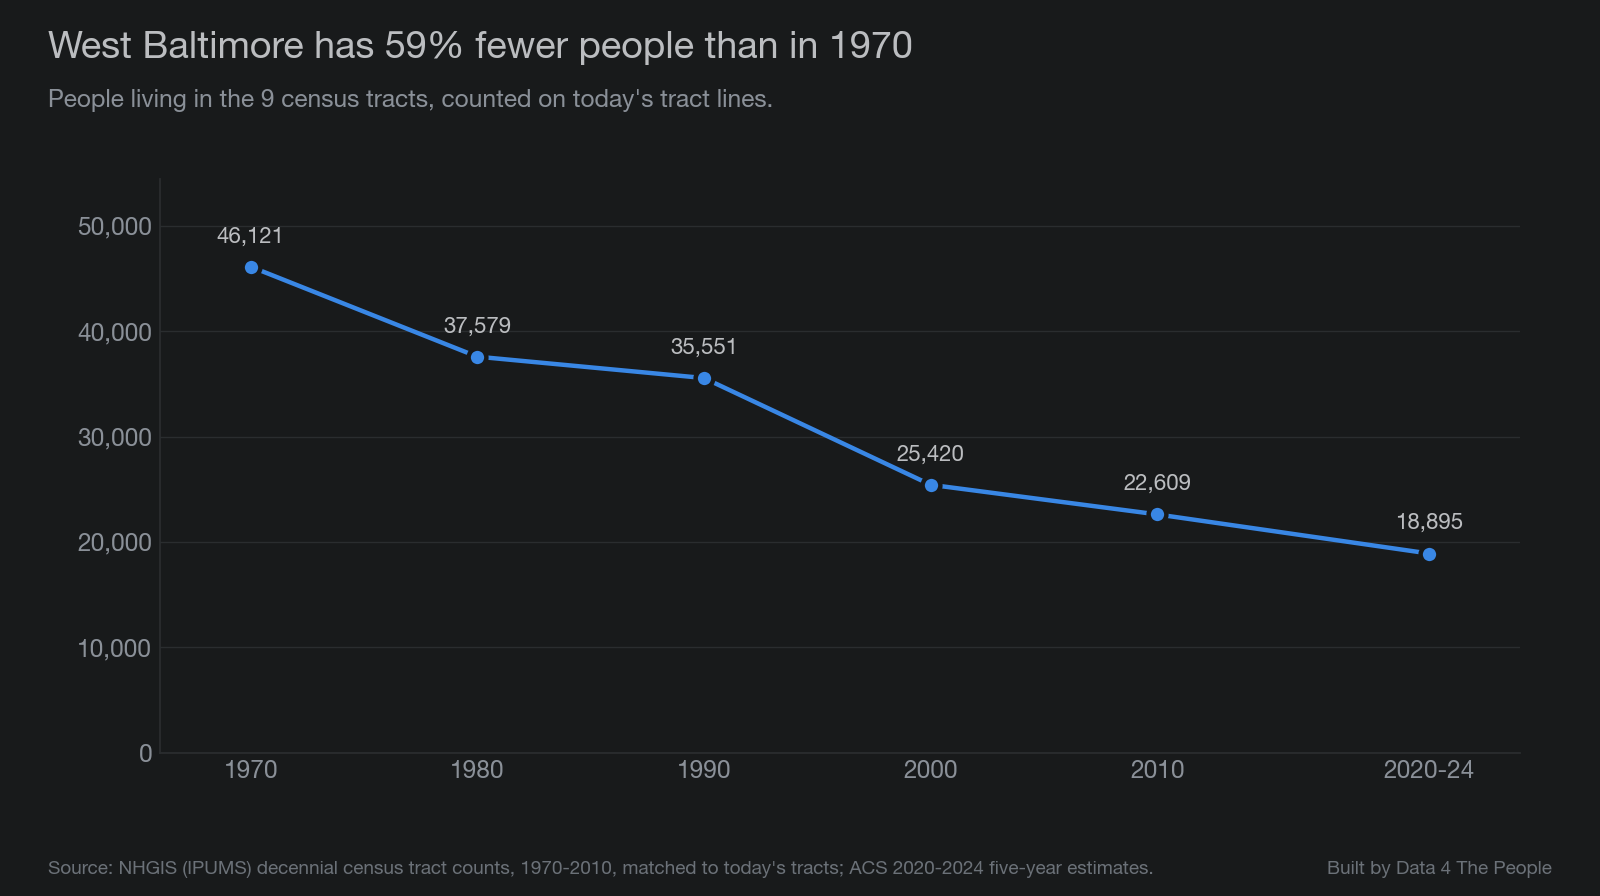
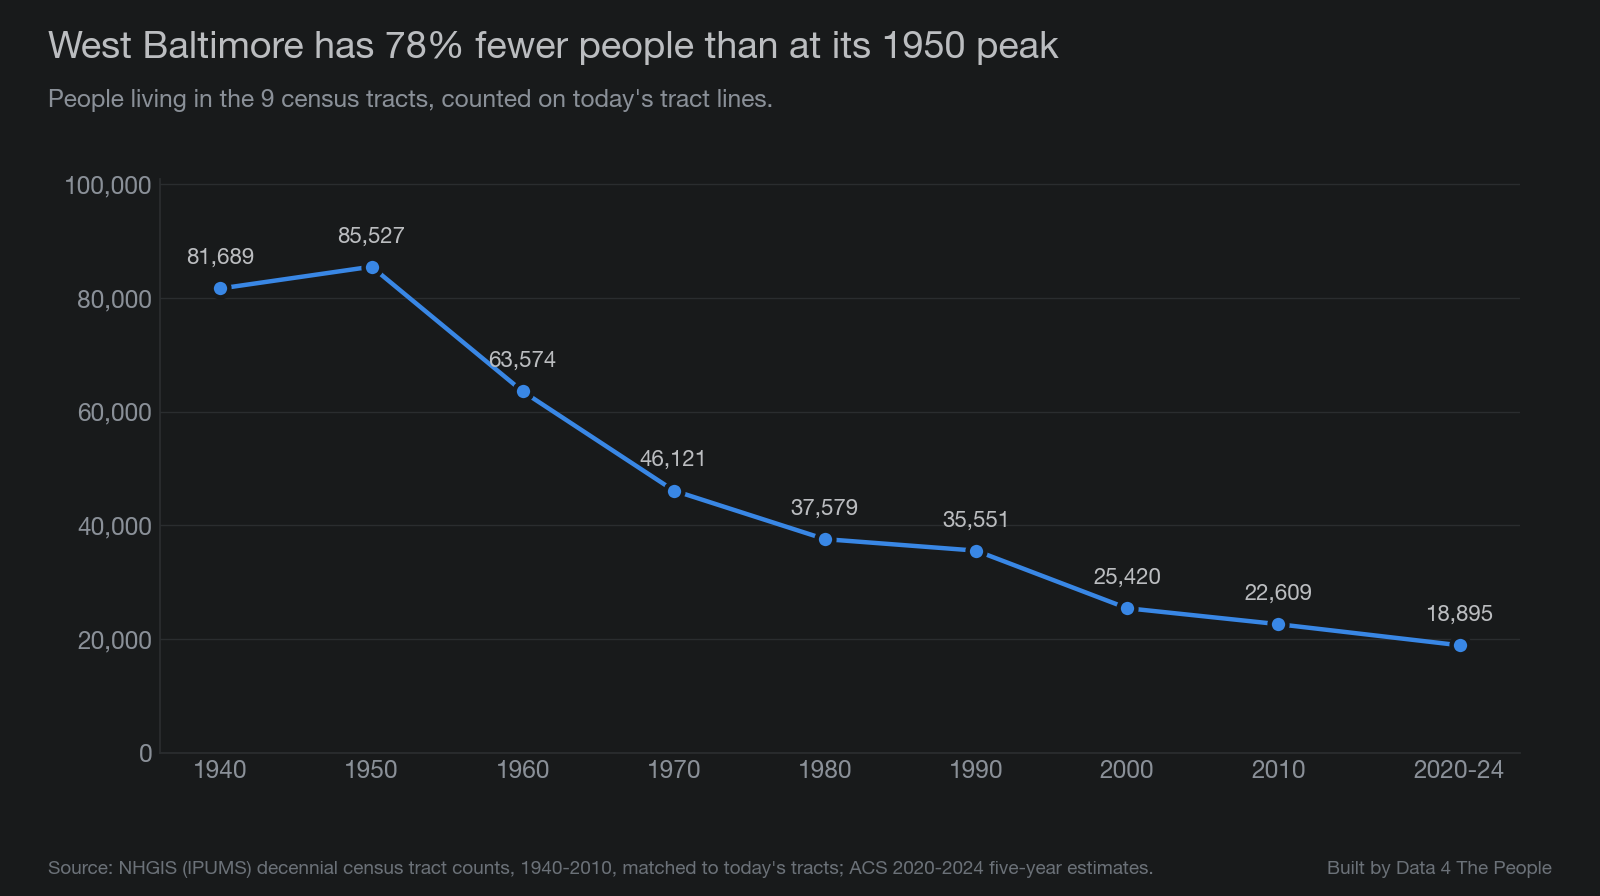
spotlight-west-baltimore: population back to 1940 (peak 1950), text updated

diff --git a/scripts/98_population_early.py b/scripts/98_population_early.py
@@ -1,0 +1,53 @@
+"""Population inside a spotlight's 2020 tract outline, 1910 to 1960, from NHGIS tract counts and tract maps.
+
+Same map-overlay rule as 1970 and 1980 in scripts/74_history.py: an old tract is in if half or more of its area falls
+inside the outline (2020 tracts, cartographic file). Fit = area of the chosen old tracts that overlaps the outline /
+area of their union with the outline. Years with fit under 0.8 are reported but should not be charted.
+Inputs: data/raw/nhgis/extract_early (1910, 1930, 1950, 1960; scripts/97_fetch_nhgis_early.py) and
+data/raw/nhgis/extract_1940 (scripts/86_fetch_nhgis_1940.py).
+Run: python scripts/98_population_early.py U039
+Output: analysis/spotlight/population_early_<cand_id>.csv (year, pop, fit, n_tracts)
+"""
+import sys
+import geopandas as gpd, pandas as pd
+sys.path.insert(0, __import__("pathlib").Path(__file__).parent.as_posix())
+from common import RAW, ROOT
+
+CID = sys.argv[1] if len(sys.argv) > 1 else "U039"
+T = pd.read_csv(ROOT / "analysis/spotlight/final_sets.csv", dtype={"tracts": str}).set_index("cand_id").loc[CID].tracts.split(";")
+g20 = gpd.read_file(RAW / "tiger" / "cb_2020_us_tract_500k.shp")
+outline = g20[g20.GEOID.isin(T)].to_crs(5070).unary_union
+E = RAW / "nhgis" / "extract_early"; E40 = RAW / "nhgis" / "extract_1940"
+
+
+def table(year):
+    base = E40 if year == 1940 else E
+    f = next(p for p in base.rglob(f"*_{year}_tract*.csv"))
+    lab = pd.read_csv(f, encoding="latin-1", nrows=1)  # row 2 holds labels
+    d = pd.read_csv(f, encoding="latin-1", low_memory=False, skiprows=[1])
+    labels = lab.iloc[0].to_dict()
+    col = next(c for c, l in labels.items() if isinstance(l, str) and ("Total" in l) and "Suppression" not in l and c not in ("GISJOIN",) and pd.api.types.is_numeric_dtype(d[c]))
+    return d[["GISJOIN", col]].rename(columns={col: "pop"}), labels[col]
+
+
+def shape(year):
+    base = E40 if year == 1940 else E
+    f = next(p for p in base.rglob(f"US_tract_{year}_conflated.shp"))
+    return gpd.read_file(f).to_crs(5070)
+
+
+rows = []
+for y in (1910, 1930, 1940, 1950, 1960):
+    t, lab = table(y); s = shape(y)
+    s = s[s.GISJOIN.isin(t.GISJOIN)]
+    hits = s[s.intersects(outline)]
+    if not len(hits): rows.append(dict(year=y, pop=None, fit=None, n_tracts=0, label=lab)); continue
+    share = hits.intersection(outline).area / hits.area
+    ch = hits[share >= 0.5]
+    u = ch.unary_union
+    fit = u.intersection(outline).area / u.union(outline).area if len(ch) else 0
+    pop = t.set_index("GISJOIN")["pop"].reindex(ch.GISJOIN).sum()
+    rows.append(dict(year=y, pop=int(pop), fit=round(fit, 3), n_tracts=len(ch), label=lab))
+out = pd.DataFrame(rows)
+out.to_csv(ROOT / f"analysis/spotlight/population_early_{CID}.csv", index=False)
+print(out.to_string(index=False))

diff --git a/scripts/81_spotlight_charts.py b/scripts/81_spotlight_charts.py
@@ -30,7 +30,7 @@ CFG = {
                  city="Dayton", state="OH", holc_year="1937", labels=[("Downtown", 39.7589, -84.1916)]),
     "U034": dict(health4="COPD", slug="spotlight-north-birmingham", name="North Birmingham", county="01073", county_name="Jefferson County",
                  city="Birmingham", state="AL", holc_year="1930s", labels=[("Downtown", 33.5186, -86.8104)]),
-    "U039": dict(pov_line=True, pov_title="Poverty here has stayed between 38% and 48% since 1970", slug="spotlight-west-baltimore", name="West Baltimore", county="24510", county_name="Baltimore", extra_roads=["US Hwy 40"],
+    "U039": dict(pop_early=True, pop_title="West Baltimore has 78% fewer people than at its 1950 peak", pov_line=True, pov_title="Poverty here has stayed between 38% and 48% since 1970", slug="spotlight-west-baltimore", name="West Baltimore", county="24510", county_name="Baltimore", extra_roads=["US Hwy 40"],
                  city="Baltimore", state="MD", holc_year="1937", labels=[("Downtown", 39.2904, -76.6122)]),
     "U028": dict(health4="DIABETES", slug="spotlight-el-segundo-barrio", name="El Segundo Barrio and Chamizal", county="48141", county_name="El Paso County",
                  city="El Paso", state="TX", holc_year="1936", labels=[("Downtown", 31.7587, -106.4869)]),
@@ -167,6 +167,10 @@ def build(cid):
 
     # ---------- 02 population ----------
     pop = h[h.measure == "population"].assign(x=lambda d: d.year.map(YX)).dropna(subset=["x"]).sort_values("x")
+    if C.get("pop_early"):  # 1940-1960 from scripts/98_population_early.py, same overlay rule, fit 0.8 or more only
+        e = pd.read_csv(ROOT / f"analysis/spotlight/population_early_{cid}.csv")
+        e = e[e.fit >= 0.8].rename(columns={"pop": "value"}).assign(x=lambda d: d.year.astype(float), year=lambda d: d.year.astype(str))[["year", "x", "value"]]
+        pop = pd.concat([e, pop[["year", "x", "value"]]]).sort_values("x")
     fig, ax = plt.subplots(figsize=(10, 5.6)); fig.subplots_adjust(left=0.1, right=0.95, top=0.8, bottom=0.16)
     ax.plot(pop.x, pop.value, color=BLUE, lw=2, marker="o", ms=8, mec=SURFACE, mew=2)
     for x, v in zip(pop.x, pop.value):
@@ -177,6 +181,7 @@ def build(cid):
     ch = 100 * (last / first - 1)
     t = (f"{C['name']} has {abs(ch):.0f}% fewer people than in {y0}" if ch <= -5 else
          f"{C['name']} has {ch:.0f}% more people than in {y0}" if ch >= 5 else f"{C['name']}'s population, {y0} to today")
+    t = C.get("pop_title", t)
     titleblock(fig, t, f"People living in the {n} census tracts, counted on today's tract lines.")
     credit(fig, f"Source: NHGIS (IPUMS) decennial census tract counts, {y0}-2010, matched to today's tracts; ACS 2020-2024 five-year estimates.")
     fig.savefig(out / "02-population.png"); plt.close(fig)

diff --git a/scripts/97_fetch_nhgis_early.py b/scripts/97_fetch_nhgis_early.py
@@ -1,0 +1,36 @@
+"""NHGIS tract population and tract maps for 1910, 1930, 1950 and 1960, to extend a spotlight's population chart before 1970.
+
+Datasets: 1910_tPop_Misc (NT1 total population), 1930_tPop_Misc (NT1), 1950_tPH_Major (NT1), 1960_tPH (NTSUP2 total persons).
+1940 comes from the existing extract (scripts/86_fetch_nhgis_1940.py). There is no 1920 tract file for Baltimore.
+Shapefiles: us_tract_<year>_tl2008. Output: data/raw/nhgis/extract_early/ (unzipped)
+"""
+import io, sys, time, zipfile, requests
+from pathlib import Path
+sys.path.insert(0, str(Path.home() / ".claude/d4tp-process"))
+from d4tp_env import read_env_file
+K = read_env_file(Path.home() / ".claude/d4tp-process/.env")["IPUMS_API_KEY"]
+H = {"Authorization": K, "Content-Type": "application/json"}
+OUT = Path(__file__).resolve().parents[1] / "data/raw/nhgis/extract_early"; OUT.mkdir(parents=True, exist_ok=True)
+if list(OUT.rglob("*.csv")):
+    sys.exit("already extracted")
+API = "https://api.ipums.org/extracts?collection=nhgis&version=2"
+body = {"datasets": {"1910_tPop_Misc": {"dataTables": ["NT1"], "geogLevels": ["tract"]},
+                     "1930_tPop_Misc": {"dataTables": ["NT1"], "geogLevels": ["tract"]},
+                     "1950_tPH_Major": {"dataTables": ["NT1"], "geogLevels": ["tract"]},
+                     "1960_tPH": {"dataTables": ["NTSUP2"], "geogLevels": ["tract"]}},
+        "shapefiles": ["us_tract_1910_tl2008", "us_tract_1930_tl2008", "us_tract_1950_tl2008", "us_tract_1960_tl2008"],
+        "dataFormat": "csv_header", "description": "D4TP spotlights: tract population 1910-1960"}
+r = requests.post(API, headers=H, json=body, timeout=120)
+if r.status_code >= 300: sys.exit(f"{r.status_code} {r.text[:1500]}")
+n = r.json()["number"]; print("extract", n, flush=True)
+while True:
+    s = requests.get(f"https://api.ipums.org/extracts/{n}?collection=nhgis&version=2", headers=H, timeout=120).json()
+    if s["status"] == "completed": break
+    if s["status"] in ("failed", "canceled"): sys.exit(str(s)[:1500])
+    time.sleep(20)
+for kind in ("tableData", "gisData"):
+    z = requests.get(s["downloadLinks"][kind]["url"], headers=H, timeout=900); z.raise_for_status()
+    zipfile.ZipFile(io.BytesIO(z.content)).extractall(OUT)
+for inner in list(OUT.rglob("*.zip")):
+    zipfile.ZipFile(inner).extractall(inner.parent)
+print("done", sorted(p.name for p in OUT.rglob("*") if p.is_file())[:30])

diff --git a/DATASETS.md b/DATASETS.md
@@ -466,6 +466,7 @@ Each spotlight post opens with 5 economic and 5 health measures for the neighbor
 - **One health chart per post, chosen for the story.** Overdose deaths where they are part of the story (Baltimore, Flint, McDowell, Owsley). West Dayton: four tract health measures over time (below). Otherwise: county life expectancy against the state and the U.S. (Clarksdale, Pine Ridge, Clarksville; County Health Rankings 2026 supplement, v147, 2021-2023), or one CDC PLACES 2025 measure for the neighborhood, county, state and U.S., each an adult-weighted average of its tracts (Birmingham: COPD; El Paso: diabetes).
 - **Drug overdose deaths:** CDC NCHS "Drug Poisoning Mortality by County," model-based death rates, 2003-2021 (data.cdc.gov dataset rpvx-m2md). The main county of each pick is shown next to the median of all county rates each year ("the middle U.S. county"). These are county-wide.
 - **Tract health over time (West Dayton; `scripts/84_health_trend.py`, `analysis/spotlight/health_trend_U047.csv`):** crude prevalence for adults from every CDC 500 Cities release (data.cdc.gov 9z78-nsfp, vurf-k5wr, rja3-32tc, 6vp6-wxuq; survey years 2013-2017) and PLACES release (4ai3-zynv, 373s-ayzu, nw2y-v4gm, em5e-5hvn, ai6z-tcin, cwsq-ngmh; survey years 2017-2023). The six tracts' values are averaged, weighted by total population. Their 2010 and 2020 lines are the same. Where two releases share a survey year, the later release is kept. U.S.: the 500 Cities U.S. row (BRFSS direct estimate) for 500 Cities releases; the population-weighted mean of all tracts, computed by the CDC API, for PLACES releases. No tract health estimates exist before the 2016 500 Cities release. CDC's PLACES FAQ says "The current modeling procedure does not support using the estimates to track changes at the local level over time" (the population used in the model is fixed at the census), so the post reads only the gap to the U.S. within each release, not the change.
+- **West Baltimore population before 1970** (`scripts/97_fetch_nhgis_early.py`, `scripts/98_population_early.py`, `analysis/spotlight/population_early_U039.csv`): NHGIS tract population for 1910 (1910_tPop_Misc NT1), 1930 (1930_tPop_Misc NT1), 1940 (1940_tPH_Major NT1), 1950 (1950_tPH_Major NT1) and 1960 (1960_tPH NTSUP2 total persons), with NHGIS tract maps (us_tract_<year>_tl2008). Same map-overlay rule as 1970 and 1980: an old tract is in if half or more of its area falls inside the 2020 outline; fit = overlap area / union area. Fit: 1910 0.74, 1930 0.50 (the 1930 file covers only part of the city), 1940-1960 0.87. Only 1940, 1950 and 1960 are charted (fit 0.8 or more). City totals check: 1910 558,485, 1940 859,100, 1950 949,708 (match published city counts), 1960 941,601 (published 939,024).
 - **Then-and-now charts** use `history_final.csv` and hide years with fit under 0.8, as the tables do. Chart 03 shows the share below 200% of the poverty line (`below200.csv`, 1990 to 2020-2024, with the U.S. share as a dashed line); for West Dayton and West Baltimore (config `pov_line`) the U.S. line is dropped and the chart instead shows the poverty rate (below 100% of the line, `history_final.csv` measure poverty_rate, 1970 to 2020-2024; West Dayton 1970 fit 0.85, 1980 fit 0.91, 1990 fit 0.86; West Baltimore 1970 and 1980 fit 0.92, 1990 fit 0.99) and the share of homes vacant (decennial census for 1990, 2000 and 2010; ACS for 2020-2024). Its 2010 income point is the ACS 2008-2012 estimate. The key measures table keeps the poverty rate.
 
 ### Race by HOLC grade, Dayton, 1940 (`scripts/86_fetch_nhgis_1940.py`, `scripts/87_holc_race_1940.py`, `analysis/spotlight/holc_race_dayton_1940.csv`)

diff --git a/posts/spotlight-west-baltimore/POST.md b/posts/spotlight-west-baltimore/POST.md
@@ -94,10 +94,10 @@ In 1966, the city began condemning property for the Franklin-Mulberry expressway
 
 One way to see these decades together is to count the people who live here. The chart below counts the people living inside today's nine tract lines in each census.
 
-![Line chart of the number of people living in West Baltimore's nine census tracts: 46,121 in 1970, 37,579 in 1980, 35,551 in 1990, 25,420 in 2000, 22,609 in 2010 and 18,895 in 2020-2024.](images/02-population.png)
-*Earlier counts are fitted to today's tract lines. 2020-2024 is a five-year survey estimate.*
+![Line chart of the number of people living in West Baltimore's nine census tracts: 81,689 in 1940, 85,527 in 1950, 63,574 in 1960, 46,121 in 1970, 37,579 in 1980, 35,551 in 1990, 25,420 in 2000, 22,609 in 2010 and 18,895 in 2020-2024.](images/02-population.png)
+*Counts from 1940 to 2010 are fitted to today's tract lines. 2020-2024 is a five-year survey estimate. Census tract counts for 1910 and 1930 exist but do not line up closely enough with today's tracts to use.*
 
-The tracts lost about 19% of their people in the 1970s, the decade the highway was cleared and built. Other things were happening at the same time. After Dr. Martin Luther King Jr. was killed in April 1968, looting began along Pennsylvania Avenue, two blocks of it inside these tracts. Across the city, six people died and there were 1,208 fires ([University of Baltimore, Baltimore '68 timeline](https://archives.ubalt.edu/bsr/timeline.htm)). And Baltimore as a whole had been losing people since 1950, when it peaked at about 950,000 ([Federal Reserve Bank of Richmond, 2017](https://www.richmondfed.org/-/media/RichmondFedOrg/publications/research/econ_focus/2017/q2/district_digest_article.pdf)). No source we found separates these causes. From 1970 to 2020-2024, the tracts went from 46,121 people to 18,895, a drop of 59%. West Dayton's tracts lost 74% over the same years.
+The tracts held about 85,500 people in 1950, the most in any census we can match to today's lines. They lost about a quarter of their people in the 1950s and more than a quarter of the rest in the 1960s, before most of the highway's homes came down. Baltimore as a whole peaked in 1950 too, at about 950,000 people ([Federal Reserve Bank of Richmond, 2017](https://www.richmondfed.org/-/media/RichmondFedOrg/publications/research/econ_focus/2017/q2/district_digest_article.pdf)). The tracts lost another 19% in the 1970s, the decade the highway was cleared and built. Other things were happening at the same time. After Dr. Martin Luther King Jr. was killed in April 1968, looting began along Pennsylvania Avenue, two blocks of it inside these tracts. Across the city, six people died and there were 1,208 fires ([University of Baltimore, Baltimore '68 timeline](https://archives.ubalt.edu/bsr/timeline.htm)). No source we found separates these causes. From 1950 to 2020-2024, the tracts went from 85,527 people to 18,895, a drop of 78%. Since 1970 alone they have lost 59%, compared with 74% in West Dayton's tracts.
 
 ## The jobs leave
 

diff --git a/TIEOUT.md b/TIEOUT.md
@@ -215,3 +215,4 @@ Code and output: `analysis/spotlight/independent/check.py`, `results.csv` and `R
 | West Dayton residents' jobs, 2002-2010 (post text, The jobs go) | LODES RAC summed by script; county shares printed as a check | jobs 7,958 to 4,549 (-42.8%); manufacturing 1,076 to 415 (-61.4%), share 13.5% to 9.1% (county 15.3% to 10.6%); population 20,459 to 16,017 (-21.7%) |
 | West Baltimore residents' jobs, 2002-2022 | LODES RAC (Maryland) summed by script; Baltimore city printed as a check | jobs 8,769 (2002) to 5,987 (2022), -31.7%; manufacturing 494 (5.6%) to 257 (4.3%); city manufacturing 18,412 to 8,873 |
 | West Baltimore unemployment (chart 02b, The jobs leave) | history_final.csv rows printed by script | 8.33 (1970), 22.32 (1980), 17.78 (1990), 20.93 (2000), 25.71 (2008-2012), 12.85 (2020-2024) |
+| West Baltimore population 1940-1960 (chart 02, People leave) | Overlay script prints chosen tracts, fit and sums; city totals compared with published census counts | 1940 81,689; 1950 85,527; 1960 63,574 (fit 0.871, 12 tracts each); 1950 to 2020-2024 -77.9%; 1950s -25.7%; 1960s -27.5% |
